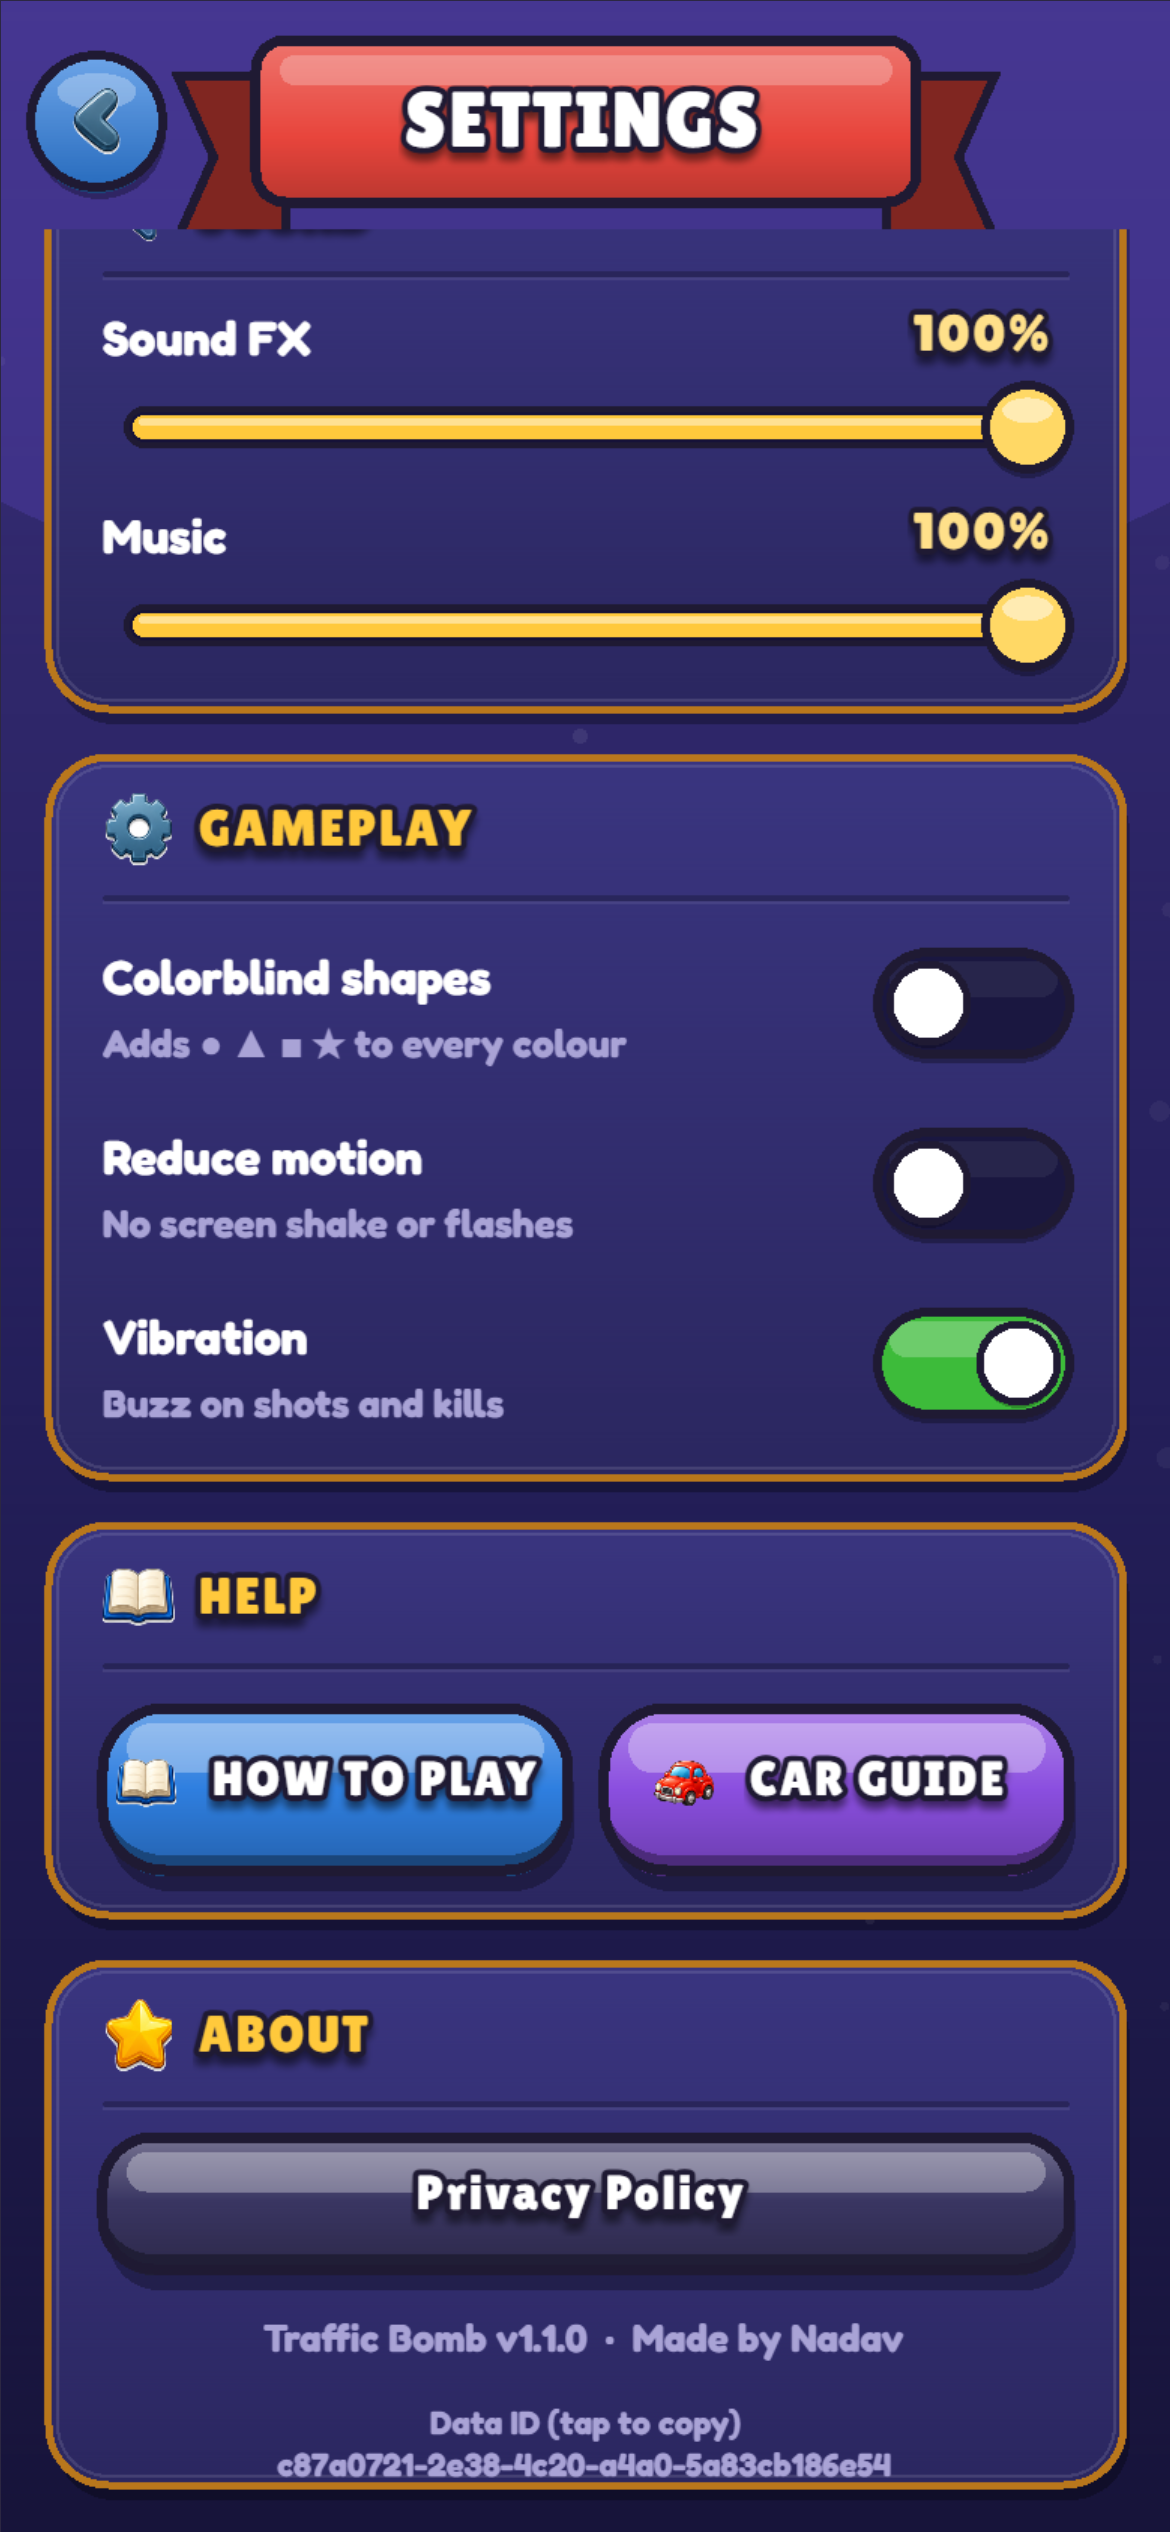
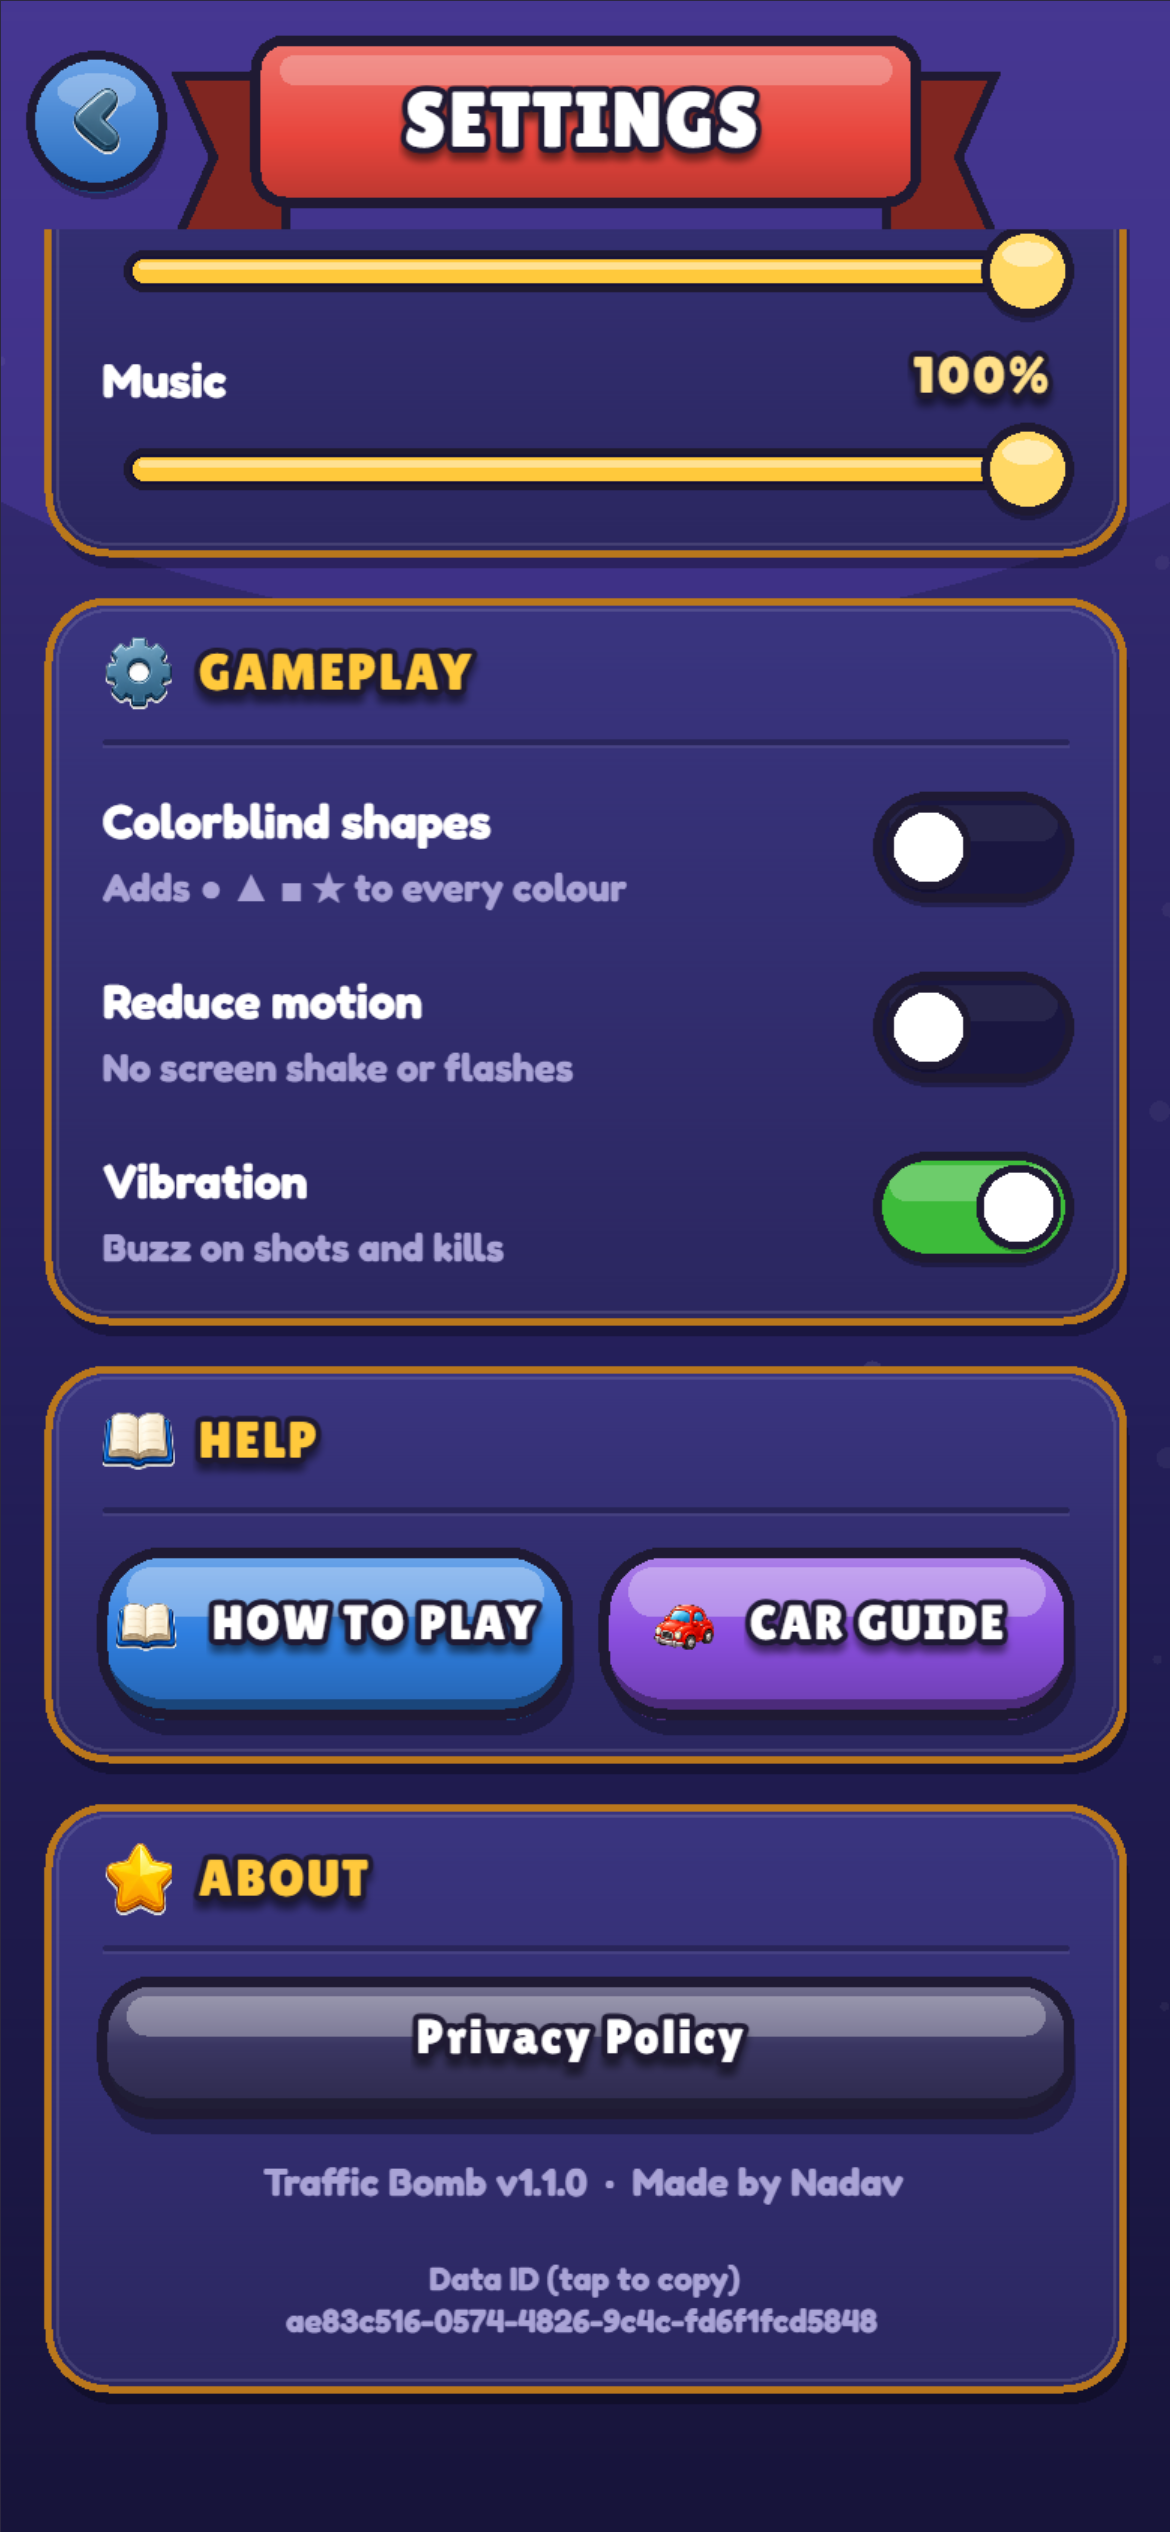
Settings: Data ID clear of the card border and a gesture bar
ABOUT card +20px so the two-line Data ID no longer touches the border;
scroll tail under the last card 16 -> 48px. store-shots 08 now scrolls
to the panel's bottom, the frame a gesture bar would cover. Re-captured
08 with the pre-fix frame kept as 08-before.

Claude-Session: https://claude.ai/code/session_01GrXfGMDDB1E488VQEPmY8r

diff --git a/src/screens/SettingsScreen.js b/src/screens/SettingsScreen.js
@@ -57,7 +57,8 @@ export class SettingsScreen {
     y = this._soundCard(y) + 16;
     y = this._gameplayCard(y) + 16;
     y = this._helpCard(y) + 16;
-    y = this._aboutCard(y) + 16;
+    // Extra tail so the last card (Data ID) scrolls fully clear of a gesture bar.
+    y = this._aboutCard(y) + 48;
     this._makeScrollable(c, 3, 76, y);
   }
 
@@ -172,7 +173,7 @@ export class SettingsScreen {
   }
 
   _aboutCard(y) {
-    const h = 52 + 122;
+    const h = 52 + 142;   // room for the two-line Data ID clear of the card border
     const ry = this._cardFrame(y, h, 'ABOUT', 'star-filled');
     const links = [['Privacy Policy', () => this._openUrl(PRIVACY_URL)]];
     if (adManager.hasPrivacyOptions) links.push(['Ad choices', () => adManager.showPrivacyOptions()]);
@@ -189,7 +190,7 @@ export class SettingsScreen {
     // Install ID: quoted in a data-deletion email (see the privacy policy). Tap copies it.
     const id = getInstallId();
     const idText = bodyText(`Data ID (tap to copy)\n${id}`, 11, 0xA9A3D6, { outline: false, weight: '700', align: 'center' });
-    idText.anchor.set(0.5); idText.x = this._appW / 2; idText.y = ry + 108;
+    idText.anchor.set(0.5); idText.x = this._appW / 2; idText.y = ry + 112;
     idText.eventMode = 'static'; idText.cursor = 'pointer';
     idText.on('pointertap', () => {
       this._audio?.play('button_tap');
